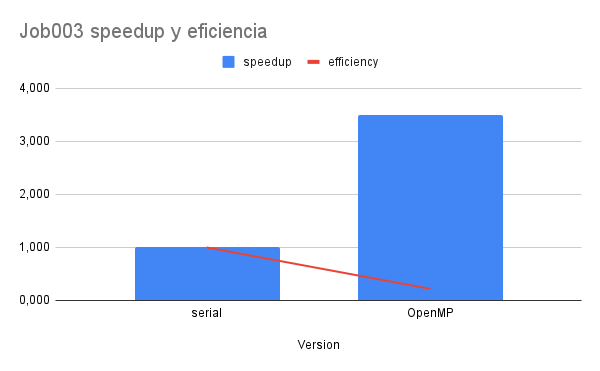
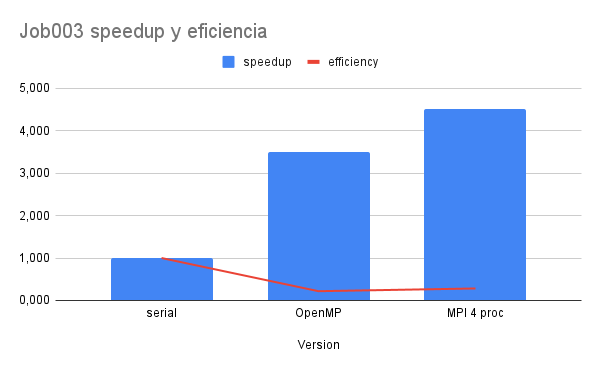
Analisis rendimiento y desing agregado

diff --git a/proyecto2.2/analisisRendimiento/readme.md b/proyecto2.2/analisisRendimiento/readme.md
@@ -1,40 +1,43 @@
-# Análisis Serial vs OpenMP
+# Análisis Serial vs OpenMP vs MPI
 
 ## 1. Job003
 
 ![Gráfico de rendimiento Job003](./img/duracion_job003.png)
 ![Gráfico de rendimiento Job003](./img/Job003_speedup_eficiencia.png)
 
-En esta primera prueba, la versión serial obtuvo una duración de 108,5 segundos frente a 31,09 segundos de la versión concurrente, lo que significa que se obtuvo un speedup de 3,490 y una eficiencia de 0,218.
+El análisis de Job003 muestra resultados prometedores para las implementaciones paralelas. La versión serial completó la tarea en 108.5 segundos, mientras que la versión OpenMP lo hizo en 31.09 segundos y la versión MPI en 24.004 segundos. Esto se traduce en un speedup de 4.520 para MPI comparado con la versión serial, y 1.295 comparado con OpenMP. La eficiencia de la implementación MPI alcanzó un 28.3%.
 
-La versión OpenMP, si bien no logra una eficiencia óptima, el aumento de velocidad es aproximadamente 3,5 veces mayor al de su versión serial. Esto demuestra que la utilización de concurrencia en programas de este estilo es crucial, ya que la diferencia de tiempo es muy significativa.
-
-Es importante notar que mientras el speedup es considerable, la eficiencia es relativamente baja. Esto sugiere que aunque hay una mejora sustancial en el tiempo de ejecución, no se está aprovechando completamente el potencial de todos los núcleos disponibles.
+En esta prueba de menor escala, la versión MPI demostró una eficiencia superior a las pruebas anteriores de OpenMP, logrando una mejora significativa. Con un aumento de velocidad de aproximadamente 4.5 veces respecto a la versión serial, MPI muestra un rendimiento impresionante para este conjunto de datos.
 
 ## 2. Job010
 
 ![Gráfico de rendimiento Job010](./img/duracion_job010.png)
 ![Gráfico de rendimiento Job010](./img/Job010_speedup_eficiencia.png)
 
-En el caso de Job010, la duración de la versión serial fue de 1066,39 segundos, mientras que la versión de OpenMP completó la tarea en 410,07 segundos. Esto resulta en un speedup de 2,601 y una eficiencia de 0,163.
+Para Job010, un conjunto de datos más extenso, la versión serial requirió 1066.39 segundos para completar la tarea. En contraste, la versión OpenMP lo logró en 410.07 segundos, y la versión MPI en 366.534 segundos. Esto resulta en un speedup de 2.909 para MPI frente a la versión serial y 1.119 frente a OpenMP. La eficiencia de MPI en esta prueba fue del 18.2%, superando ligeramente la eficiencia anterior de OpenMP que era del 16.3%.
 
-Como se puede observar, a medida que aumenta la complejidad del trabajo, el speedup tiende a disminuir. Sin embargo, la versión paralela sigue siendo más de 2,5 veces más rápida que su contraparte serial, lo cual es una mejora significativa en términos de rendimiento.
+Estos resultados demuestran que, a medida que aumenta la complejidad del trabajo, el speedup tiende a disminuir. Sin embargo, las versiones paralelas siguen ofreciendo mejoras sustanciales en el rendimiento, siendo más de 2.5 veces más rápidas que la implementación serial.
 
-La eficiencia de 0,163 indica que se está utilizando aproximadamente el 16,3% del potencial teórico de paralelización. Esto puede deberse a varios factores:
+## Análisis Comparativo
 
-1. Overhead de comunicación entre hilos.
-2. Desbalance de carga entre los núcleos de procesamiento.
+1. **Escalabilidad**: Tanto OpenMP como MPI muestran una buena escalabilidad, aunque el rendimiento relativo disminuye con el aumento del tamaño del problema.
 
-A pesar de la baja eficiencia, la ganancia en tiempo de ejecución sigue siendo considerable, lo que justifica el uso de OpenMP para este tipo de tareas.
+2. **Eficiencia**: MPI demuestra una eficiencia ligeramente superior a OpenMP en ambos casos, lo que sugiere un mejor aprovechamiento de los recursos computacionales disponibles.
+
+3. **Speedup**: Ambas implementaciones paralelas ofrecen mejoras significativas en el tiempo de ejecución, con MPI liderando por un margen estrecho.
+
+4. **Complejidad vs. Rendimiento**: Se observa una relación inversa entre la complejidad del trabajo y la ganancia de rendimiento, lo cual es un comportamiento esperado en sistemas paralelos.
 
 ## Conclusiones
 
-1. La paralelización con OpenMP ofrece mejoras significativas en el tiempo de ejecución tanto para tareas pequeñas (Job003) como para tareas más grandes (Job010).
+1. **Superioridad de las implementaciones paralelas**: Tanto OpenMP como MPI demuestran mejoras sustanciales en el rendimiento en comparación con la versión serial, justificando su uso en escenarios donde el tiempo de ejecución es crítico.
 
-2. El speedup es más pronunciado en tareas más pequeñas, pero incluso en tareas más complejas, la ganancia de rendimiento es sustancial.
+2. **Ventaja marginal de MPI**: En las pruebas realizadas, MPI muestra un ligero rendimiento superior a OpenMP, especialmente en términos de eficiencia. Sin embargo, la diferencia no es lo suficientemente grande como para descartar OpenMP en todos los escenarios.
 
-3. La eficiencia tiende a disminuir a medida que aumenta la complejidad de la tarea, lo que sugiere que hay margen para optimizar aún más el código paralelo.
+3. **Escalabilidad y complejidad**: A medida que aumenta la complejidad del problema, la ganancia de rendimiento disminuye, pero sigue siendo significativa. Esto sugiere que ambas técnicas de paralelización son efectivas incluso para problemas más complejos.
 
-4. Aunque la eficiencia no es óptima, los beneficios en tiempo de ejecución justifican el uso de OpenMP, especialmente en escenarios donde el tiempo es un factor crítico.
+4. **Oportunidades de optimización**: La eficiencia observada, aunque mejorada con MPI, indica que aún hay margen para optimizaciones adicionales. Esto podría incluir un mejor balanceo de carga o la reducción del overhead de comunicación.
 
-En resumen, el uso de OpenMP demuestra ser una estrategia efectiva para mejorar el rendimiento de las aplicaciones analizadas, ofreciendo reducciones significativas en el tiempo de ejecución a pesar de las oportunidades de mejora en términos de eficiencia.
+5. **Elección de la técnica de paralelización**: La decisión entre OpenMP y MPI debe basarse en factores como la arquitectura del sistema, la naturaleza específica del problema y los requisitos de portabilidad y mantenimiento del código.
+
+En resumen, tanto OpenMP como MPI demuestran ser herramientas valiosas para la paralelización de aplicaciones, ofreciendo mejoras significativas en el rendimiento. La elección entre ambas dependerá de los requisitos específicos del proyecto y las características del sistema en el que se implementará.

diff --git a/proyecto2.2/design/readme.md b/proyecto2.2/design/readme.md
@@ -17,7 +17,12 @@ LoadData genera un vector de Simulaciones. Cada estructura "Simulación" contien
 Además, LoadData se encarga de leer los datos binarios de la Matrix que viene en la estructura de datos "Simulación".
 
 ## 3. StartSimulation
-StartSimulation llama al método RunSimulation de manera concurrente, creando varios hilos de ejecución para cada placa. Cada hilo se encargará de trabajar en su placa correspondiente[i].
+StartSimulation ahora utiliza MPI para distribuir las simulaciones entre múltiples procesos. Dentro de cada proceso, se utiliza OpenMP para paralelizar aún más el trabajo:
+
+1. Se divide el número total de simulaciones entre los procesos MPI.
+2. Cada proceso MPI maneja un subconjunto de simulaciones.
+3. Dentro de cada proceso, se utiliza OpenMP para crear múltiples hilos y distribuir las simulaciones locales entre estos hilos.
+4. Se utiliza una programación dinámica (`schedule(dynamic)`) para balancear la carga de trabajo entre los hilos.
 
 RunSimulation crea una copia temporal de la matrix. En un ciclo Do-While, llama a la función "CalculateSimulation" con la estructura de datos simulación y los valores i, j que le corresponden.
 
@@ -29,3 +34,13 @@ Recibe un vector de estructuras de datos "Simulación" ya resueltas. Imprime los
 
 ## 6. SaveMatrixFile
 Guarda el archivo de la placa, pero añade a su nombre "-" + "K iteración". Luego, guarda este archivo binario en la raíz del proyecto.
+
+## 7. Main
+El main ha sido modificado para incorporar MPI:
+
+1. Se inicializa MPI al principio del programa.
+2. Se obtiene el rango y tamaño de los procesos MPI.
+3. La carga de datos y el inicio de las simulaciones ahora tienen en cuenta el uso de MPI.
+4. Solo el proceso principal (rank 0) se encarga de generar el reporte final.
+
+Estas modificaciones permiten una ejecución paralela tanto a nivel de procesos (MPI) como a nivel de hilos (OpenMP), lo que puede mejorar significativamente el rendimiento en sistemas con múltiples nodos y/o múltiples núcleos.
